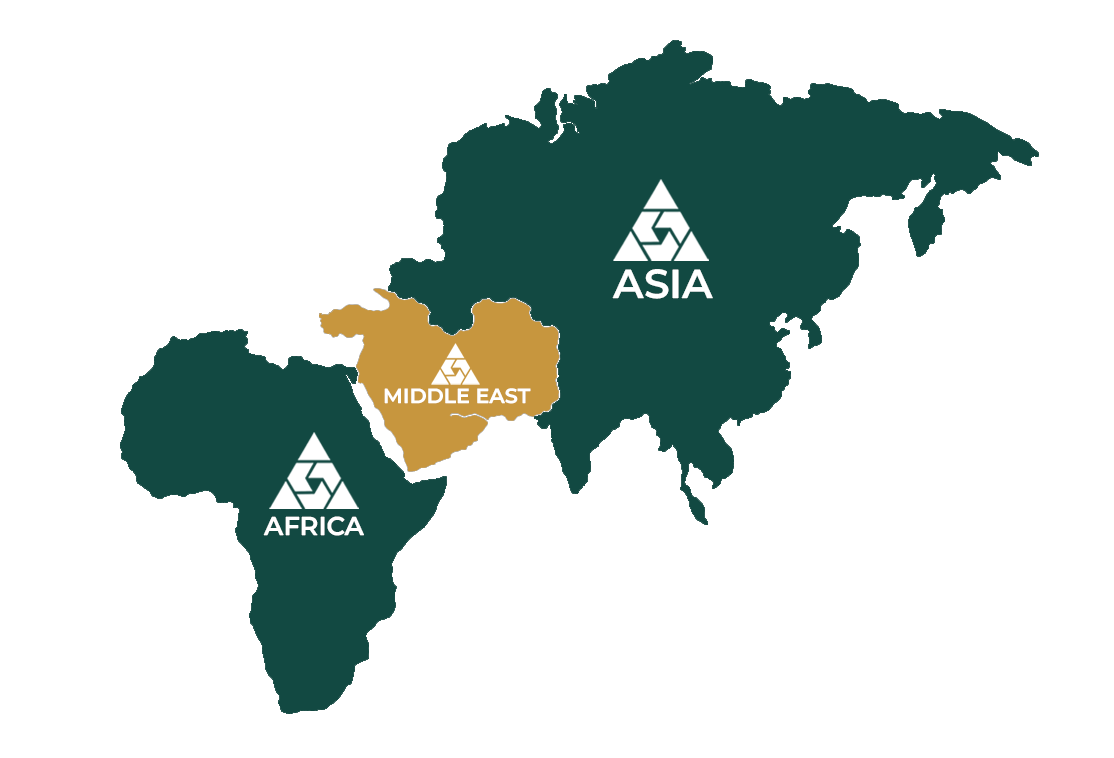
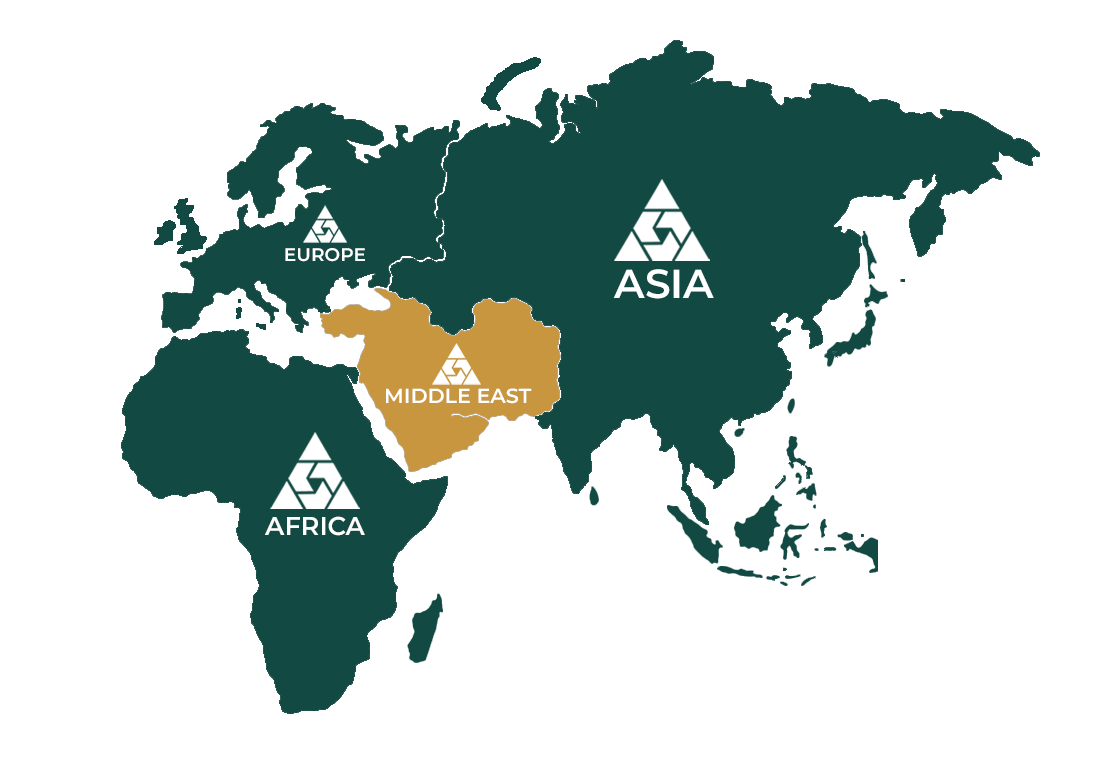
Changes made to About Us page
Leadership section - added content
Chairman's photo - Cropped to zoom in
Global Presence - Added Europe in the Map
Team members - hid the section for now

diff --git a/about.html b/about.html
@@ -88,7 +88,8 @@
           <img src="Media/About Us/Chairman Photo 2.png" alt="Dato Dr. Arshad Mahmood">
         </div>
         <div class="chairman-bio">
-          <p>Dato Dr. Arshad Mahmood is the Founder and Chairman of the International Investment Consortium Inc. (IIC), where he provides the strategic vision that drives the organization&rsquo;s evolution into a global commodity, trade, and finance platform. Under his leadership, IIC has been repositioned to open markets, bridge supply and demand, and deliver financial solutions that enable legitimate trading across borders. His commitment to building trusted marketplaces and connecting producers with buyers has defined IIC&rsquo;s new direction.</p>
+          <p>Dato Dr. Arshad Mahmood is the Founder and Chairman of the International Investment Consortium Inc. (IIC). Established in Hong Kong in 1997, IIC has an ever expanding presence in Asia, Middle East, Africa and Europe. Its subsidiaries and business platforms form the foundation for growth in many existing and emerging market sectors.</p>
+          <p>Dato Dr. Arshad provides the strategic vision that drives the organization&rsquo;s evolution into a global commodity, trade, and finance platform. Under his leadership, IIC has been repositioned to open markets, bridge supply and demand, and deliver financial solutions that enable legitimate trading across borders. His commitment to building trusted marketplaces and connecting producers with buyers has defined IIC&rsquo;s new direction.</p>
           <p>Dato Dr. Arshad holds a Bachelor&rsquo;s Degree in Economics, a Master&rsquo;s Degree in Literature, and an Honorary Doctorate in Management Sciences from ACMIT USA. His multidisciplinary academic foundation, combined with decades of experience in international trade and finance, reflects his dedication to building transparent, accessible, and efficient commodity markets.</p>
           <p>Guided by a philosophy of creating markets where none exist, Dato Dr. Arshad advocates for connecting those who have commodities and services with those who need them. His vision emphasizes trade finance, verified supply chains, and market infrastructure that empowers producers, buyers, and suppliers to trade with confidence, contributing to economic growth across emerging and established markets alike.</p>
         </div>
@@ -201,6 +202,8 @@
   </section>
 
   <!-- LEADERSHIP TEAM -->
+  <!-- HIDDEN: Leadership Team section (temporarily removed — uncomment to restore) -->
+  <!--
   <section class="section section--primary">
     <div class="container">
       <div class="section-header section-header--center reveal">
@@ -211,67 +214,67 @@
       <div class="grid grid-3">
 
         <div class="card reveal" style="text-align: center; padding: 0; overflow: hidden;">
-          <div style="width: 100%; aspect-ratio: 1; background: var(--bg-card-hover, rgba(0,0,0,0.04)); display: flex; align-items: center; justify-content: center; overflow: hidden;">
-            <img src="Media/Team/member-1.jpg" alt="Dato Dr. Arshad Mahmood" style="width: 100%; height: 100%; object-fit: cover; display: block;" onerror="this.style.display='none';this.parentNode.innerHTML='<span style=\'color:var(--text-muted);font-size:13px;font-family:var(--font-data)\'>Team Photo<br><small>400 x 400 px</small></span>'">
+          <div style="width: 100%; aspect-ratio: 1; background: var(&#45;&#45;bg-card-hover, rgba(0,0,0,0.04)); display: flex; align-items: center; justify-content: center; overflow: hidden;">
+            <img src="Media/Team/member-1.jpg" alt="Dato Dr. Arshad Mahmood" style="width: 100%; height: 100%; object-fit: cover; display: block;" onerror="this.style.display='none';this.parentNode.innerHTML='<span style=\'color:var(&#45;&#45;text-muted);font-size:13px;font-family:var(&#45;&#45;font-data)\'>Team Photo<br><small>400 x 400 px</small></span>'">
           </div>
           <div style="padding: 24px 20px;">
             <h4 class="card__title" style="margin-bottom: 4px;">Dato Dr. Arshad Mahmood</h4>
-            <p style="font-family: var(--font-data); font-size: 13px; font-weight: 600; letter-spacing: 0.06em; text-transform: uppercase; color: var(--gold-text); margin-bottom: 12px;">Chairman &amp; CEO</p>
+            <p style="font-family: var(&#45;&#45;font-data); font-size: 13px; font-weight: 600; letter-spacing: 0.06em; text-transform: uppercase; color: var(&#45;&#45;gold-text); margin-bottom: 12px;">Chairman &amp; CEO</p>
             <p class="card__text">Founding leader responsible for the strategic vision and overall direction of IIC Worldwide, with decades of experience in international trade and finance.</p>
           </div>
         </div>
 
         <div class="card reveal" style="text-align: center; padding: 0; overflow: hidden;">
-          <div style="width: 100%; aspect-ratio: 1; background: var(--bg-card-hover, rgba(0,0,0,0.04)); display: flex; align-items: center; justify-content: center; overflow: hidden;">
-            <img src="Media/Team/member-2.jpg" alt="Team Member" style="width: 100%; height: 100%; object-fit: cover; display: block;" onerror="this.style.display='none';this.parentNode.innerHTML='<span style=\'color:var(--text-muted);font-size:13px;font-family:var(--font-data)\'>Team Photo<br><small>400 x 400 px</small></span>'">
+          <div style="width: 100%; aspect-ratio: 1; background: var(&#45;&#45;bg-card-hover, rgba(0,0,0,0.04)); display: flex; align-items: center; justify-content: center; overflow: hidden;">
+            <img src="Media/Team/member-2.jpg" alt="Team Member" style="width: 100%; height: 100%; object-fit: cover; display: block;" onerror="this.style.display='none';this.parentNode.innerHTML='<span style=\'color:var(&#45;&#45;text-muted);font-size:13px;font-family:var(&#45;&#45;font-data)\'>Team Photo<br><small>400 x 400 px</small></span>'">
           </div>
           <div style="padding: 24px 20px;">
             <h4 class="card__title" style="margin-bottom: 4px;">Team Member</h4>
-            <p style="font-family: var(--font-data); font-size: 13px; font-weight: 600; letter-spacing: 0.06em; text-transform: uppercase; color: var(--gold-text); margin-bottom: 12px;">Chief Operating Officer</p>
+            <p style="font-family: var(&#45;&#45;font-data); font-size: 13px; font-weight: 600; letter-spacing: 0.06em; text-transform: uppercase; color: var(&#45;&#45;gold-text); margin-bottom: 12px;">Chief Operating Officer</p>
             <p class="card__text">Oversees day-to-day platform operations, ensuring seamless trade facilitation and marketplace efficiency across all regions.</p>
           </div>
         </div>
 
         <div class="card reveal" style="text-align: center; padding: 0; overflow: hidden;">
-          <div style="width: 100%; aspect-ratio: 1; background: var(--bg-card-hover, rgba(0,0,0,0.04)); display: flex; align-items: center; justify-content: center; overflow: hidden;">
-            <img src="Media/Team/member-3.jpg" alt="Team Member" style="width: 100%; height: 100%; object-fit: cover; display: block;" onerror="this.style.display='none';this.parentNode.innerHTML='<span style=\'color:var(--text-muted);font-size:13px;font-family:var(--font-data)\'>Team Photo<br><small>400 x 400 px</small></span>'">
+          <div style="width: 100%; aspect-ratio: 1; background: var(&#45;&#45;bg-card-hover, rgba(0,0,0,0.04)); display: flex; align-items: center; justify-content: center; overflow: hidden;">
+            <img src="Media/Team/member-3.jpg" alt="Team Member" style="width: 100%; height: 100%; object-fit: cover; display: block;" onerror="this.style.display='none';this.parentNode.innerHTML='<span style=\'color:var(&#45;&#45;text-muted);font-size:13px;font-family:var(&#45;&#45;font-data)\'>Team Photo<br><small>400 x 400 px</small></span>'">
           </div>
           <div style="padding: 24px 20px;">
             <h4 class="card__title" style="margin-bottom: 4px;">Team Member</h4>
-            <p style="font-family: var(--font-data); font-size: 13px; font-weight: 600; letter-spacing: 0.06em; text-transform: uppercase; color: var(--gold-text); margin-bottom: 12px;">Chief Financial Officer</p>
+            <p style="font-family: var(&#45;&#45;font-data); font-size: 13px; font-weight: 600; letter-spacing: 0.06em; text-transform: uppercase; color: var(&#45;&#45;gold-text); margin-bottom: 12px;">Chief Financial Officer</p>
             <p class="card__text">Leads financial strategy, capital allocation, and risk management, ensuring sound fiscal governance across all trade finance activities.</p>
           </div>
         </div>
 
         <div class="card reveal" style="text-align: center; padding: 0; overflow: hidden;">
-          <div style="width: 100%; aspect-ratio: 1; background: var(--bg-card-hover, rgba(0,0,0,0.04)); display: flex; align-items: center; justify-content: center; overflow: hidden;">
-            <img src="Media/Team/member-4.jpg" alt="Team Member" style="width: 100%; height: 100%; object-fit: cover; display: block;" onerror="this.style.display='none';this.parentNode.innerHTML='<span style=\'color:var(--text-muted);font-size:13px;font-family:var(--font-data)\'>Team Photo<br><small>400 x 400 px</small></span>'">
+          <div style="width: 100%; aspect-ratio: 1; background: var(&#45;&#45;bg-card-hover, rgba(0,0,0,0.04)); display: flex; align-items: center; justify-content: center; overflow: hidden;">
+            <img src="Media/Team/member-4.jpg" alt="Team Member" style="width: 100%; height: 100%; object-fit: cover; display: block;" onerror="this.style.display='none';this.parentNode.innerHTML='<span style=\'color:var(&#45;&#45;text-muted);font-size:13px;font-family:var(&#45;&#45;font-data)\'>Team Photo<br><small>400 x 400 px</small></span>'">
           </div>
           <div style="padding: 24px 20px;">
             <h4 class="card__title" style="margin-bottom: 4px;">Team Member</h4>
-            <p style="font-family: var(--font-data); font-size: 13px; font-weight: 600; letter-spacing: 0.06em; text-transform: uppercase; color: var(--gold-text); margin-bottom: 12px;">Head of Commodity Trading</p>
+            <p style="font-family: var(&#45;&#45;font-data); font-size: 13px; font-weight: 600; letter-spacing: 0.06em; text-transform: uppercase; color: var(&#45;&#45;gold-text); margin-bottom: 12px;">Head of Commodity Trading</p>
             <p class="card__text">Manages commodity sourcing, supplier verification, and trading operations across agricultural, energy, and industrial markets.</p>
           </div>
         </div>
 
         <div class="card reveal" style="text-align: center; padding: 0; overflow: hidden;">
-          <div style="width: 100%; aspect-ratio: 1; background: var(--bg-card-hover, rgba(0,0,0,0.04)); display: flex; align-items: center; justify-content: center; overflow: hidden;">
-            <img src="Media/Team/member-5.jpg" alt="Team Member" style="width: 100%; height: 100%; object-fit: cover; display: block;" onerror="this.style.display='none';this.parentNode.innerHTML='<span style=\'color:var(--text-muted);font-size:13px;font-family:var(--font-data)\'>Team Photo<br><small>400 x 400 px</small></span>'">
+          <div style="width: 100%; aspect-ratio: 1; background: var(&#45;&#45;bg-card-hover, rgba(0,0,0,0.04)); display: flex; align-items: center; justify-content: center; overflow: hidden;">
+            <img src="Media/Team/member-5.jpg" alt="Team Member" style="width: 100%; height: 100%; object-fit: cover; display: block;" onerror="this.style.display='none';this.parentNode.innerHTML='<span style=\'color:var(&#45;&#45;text-muted);font-size:13px;font-family:var(&#45;&#45;font-data)\'>Team Photo<br><small>400 x 400 px</small></span>'">
           </div>
           <div style="padding: 24px 20px;">
             <h4 class="card__title" style="margin-bottom: 4px;">Team Member</h4>
-            <p style="font-family: var(--font-data); font-size: 13px; font-weight: 600; letter-spacing: 0.06em; text-transform: uppercase; color: var(--gold-text); margin-bottom: 12px;">Head of Trade Finance</p>
+            <p style="font-family: var(&#45;&#45;font-data); font-size: 13px; font-weight: 600; letter-spacing: 0.06em; text-transform: uppercase; color: var(&#45;&#45;gold-text); margin-bottom: 12px;">Head of Trade Finance</p>
             <p class="card__text">Designs and delivers trade finance solutions that bridge buyers and sellers, enabling transactions across emerging and established markets.</p>
           </div>
         </div>
 
         <div class="card reveal" style="text-align: center; padding: 0; overflow: hidden;">
-          <div style="width: 100%; aspect-ratio: 1; background: var(--bg-card-hover, rgba(0,0,0,0.04)); display: flex; align-items: center; justify-content: center; overflow: hidden;">
-            <img src="Media/Team/member-6.jpg" alt="Team Member" style="width: 100%; height: 100%; object-fit: cover; display: block;" onerror="this.style.display='none';this.parentNode.innerHTML='<span style=\'color:var(--text-muted);font-size:13px;font-family:var(--font-data)\'>Team Photo<br><small>400 x 400 px</small></span>'">
+          <div style="width: 100%; aspect-ratio: 1; background: var(&#45;&#45;bg-card-hover, rgba(0,0,0,0.04)); display: flex; align-items: center; justify-content: center; overflow: hidden;">
+            <img src="Media/Team/member-6.jpg" alt="Team Member" style="width: 100%; height: 100%; object-fit: cover; display: block;" onerror="this.style.display='none';this.parentNode.innerHTML='<span style=\'color:var(&#45;&#45;text-muted);font-size:13px;font-family:var(&#45;&#45;font-data)\'>Team Photo<br><small>400 x 400 px</small></span>'">
           </div>
           <div style="padding: 24px 20px;">
             <h4 class="card__title" style="margin-bottom: 4px;">Team Member</h4>
-            <p style="font-family: var(--font-data); font-size: 13px; font-weight: 600; letter-spacing: 0.06em; text-transform: uppercase; color: var(--gold-text); margin-bottom: 12px;">Head of Technology</p>
+            <p style="font-family: var(&#45;&#45;font-data); font-size: 13px; font-weight: 600; letter-spacing: 0.06em; text-transform: uppercase; color: var(&#45;&#45;gold-text); margin-bottom: 12px;">Head of Technology</p>
             <p class="card__text">Drives the development of IIC&rsquo;s digital trading platform, marketplace infrastructure, and technology systems that power secure global trade.</p>
           </div>
         </div>
@@ -279,6 +282,7 @@
       </div>
     </div>
   </section>
+  -->
 
   <!-- FOOTER CTA -->
   <section class="cta-band">

diff --git a/js/prices.js b/js/prices.js
@@ -11,8 +11,8 @@
    ============================================================ */
 
 var PRICE_CONFIG = {
-  goldApiKey: 'goldapi-95c93903adab83d4c934c18d674b98d3-io',
-  alphaVantageKey: '3NXQYU6IPOMAQE7C',
+  goldApiKey: 'DEMO',
+  alphaVantageKey: 'DEMO',
   metalsCacheTTL: 28800000,
   commoditiesCacheTTL: 86400000,
   currency: 'USD'

diff --git a/css/style.css b/css/style.css
@@ -1066,6 +1066,10 @@ h4, .h4 {
   gap: 60px;
   align-items: stretch;
 }
+.chairman-bio p,
+.chairman-message p {
+  text-align: justify;
+}
 
 /* Stats Row */
 .stats {
